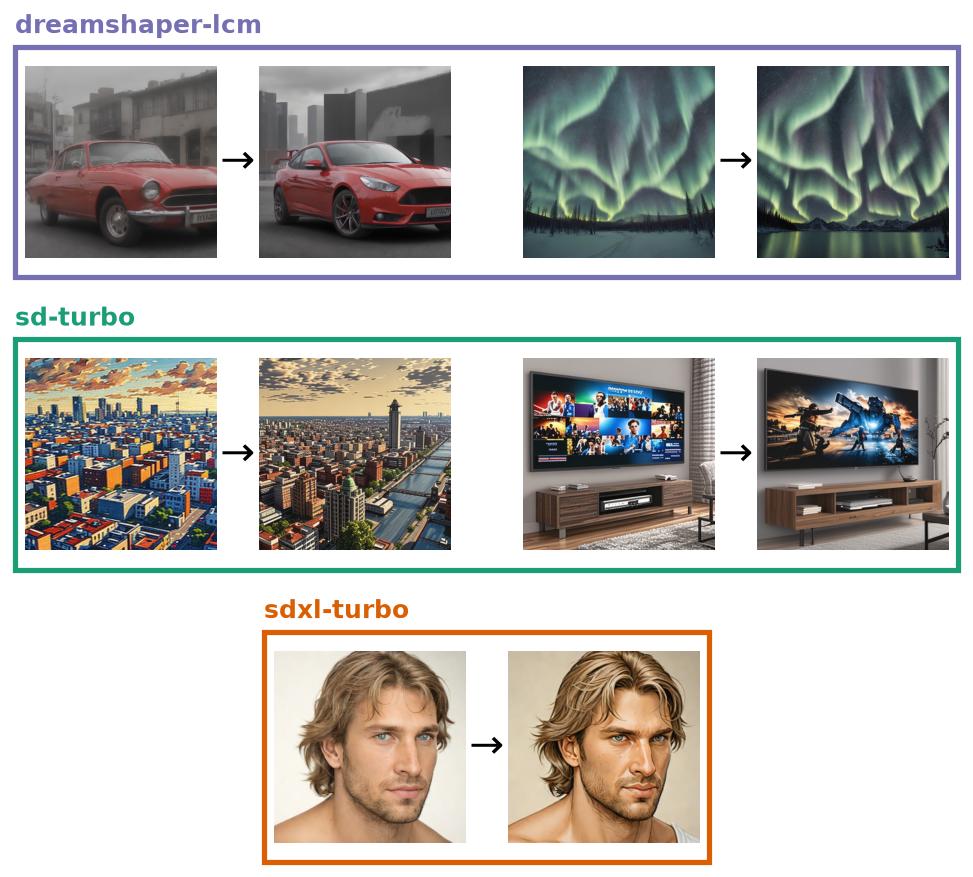
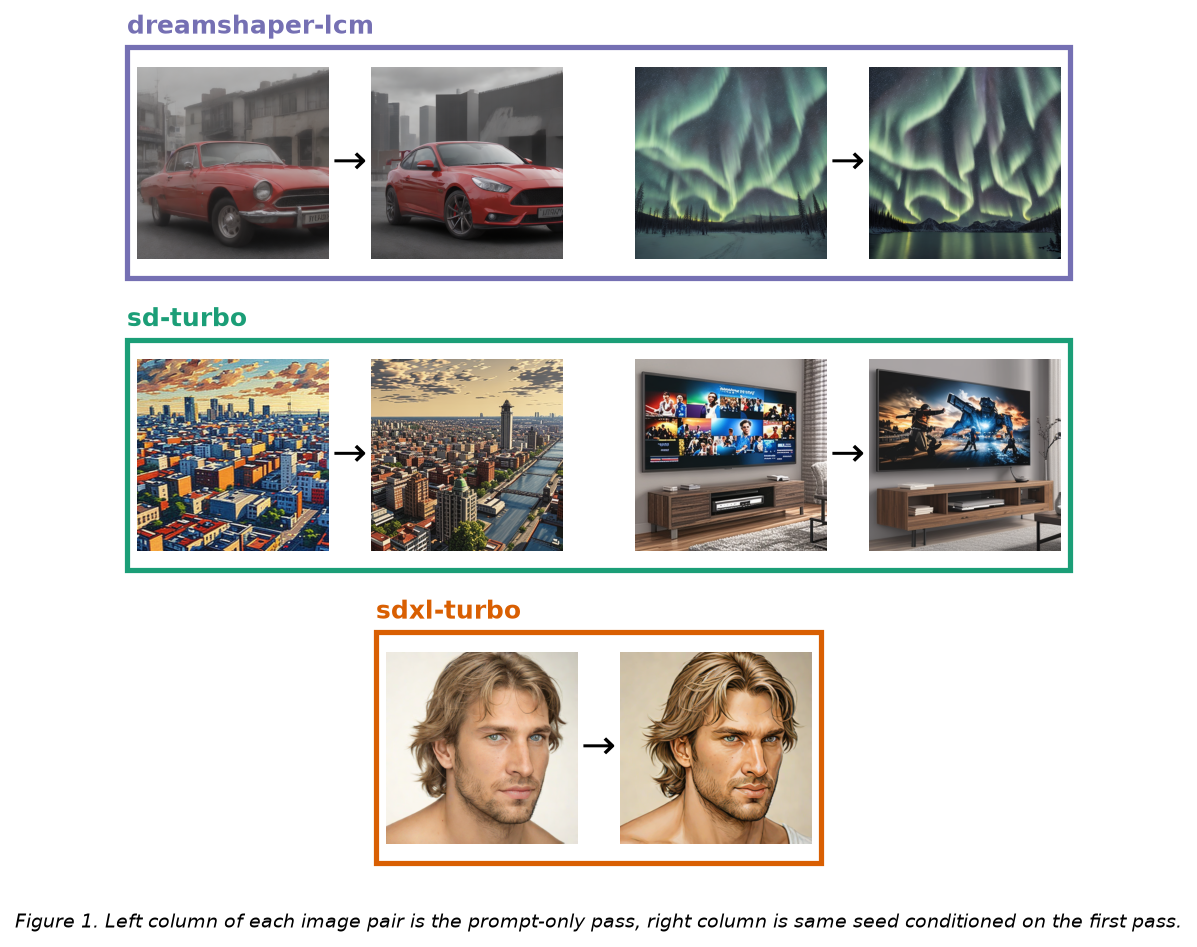
Updated readability.

diff --git a/benchmark/plots/plot_cover_image.py b/benchmark/plots/plot_cover_image.py
@@ -62,6 +62,14 @@ for row, (model, samples) in enumerate(ROWS):
     fig.text(row_left - pad, row_top + pad + LABEL_OFFSET, model, ha='left', va='bottom',
               fontsize=12, fontweight='bold', color=COLORS[model])
 
+CAPTION = (
+    'Figure 1. Left column of each image pair is the prompt-only pass, '
+    'right column is same seed conditioned on the first pass.'
+)
+BOTTOM_GAP = 0.06
+fig.text(0.5, row_bottom - BOTTOM_GAP, CAPTION, ha='center', va='top',
+          fontsize=9, style='italic', wrap=True)
+
 out_path = Path(__file__).parent / 'cover_image.png'
 fig.savefig(out_path, dpi=150, bbox_inches='tight')
 print(f'Wrote {out_path}')
